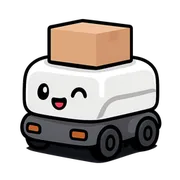
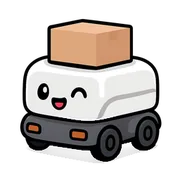
Remove dark ground shadow from AMR frame b
Claude-Session: https://claude.ai/code/session_019QwctBLnb4UTXMJBnbargq

Changed region(s): [[0.1389, 0.7778, 0.8333, 0.9167], [0.3611, 0.6389, 0.6389, 0.6944], [0.8333, 0.8056, 0.8889, 0.8333]]

diff --git a/index.html b/index.html
@@ -2027,7 +2027,7 @@ const faceHTML = (e, who = 'suit') => FACE_ART[who][e] || FACE_ART.suit[e] || e;
 // 같은 그림이 여러 개 있어도 박자가 겹치지 않게 시작점을 흩뜨림
 // 그림을 다시 그려도 폰에 남은 옛 그림이 보이지 않게 주소에 버전을 붙임
 // 파일마다 내용이 바뀔 때만 새로 받도록 파일 해시를 붙임 (빌드할 때 채움)
-const ART_HASH = {"tile-gundam-a.png": "41a00219", "ind-school-a.png": "1b0fc977", "robot-cobot-cook-b.png": "3f739fa6", "tile-tool-a.png": "f174149f", "tile-made-a.png": "d557ba97", "ind-training-b.png": "0efc1d0b", "robot-qarm-a.png": "901f7afc", "tile-legs-b.png": "c0299b41", "tile-union-b.png": "b3a03a42", "robot-indus-b.png": "4a7cabef", "face-cook-frown.png": "e01a4907", "face-cook-neutral.png": "71441525", "ind-battery-b.png": "6e2bd18d", "ind-fire-a.png": "a71484d3", "face-trump-neutral.png": "5aecac90", "tile-legs-a.png": "2faadad6", "face-worker-angry.png": "eb6b88ed", "ind-steel-a.png": "0f070238", "face-suitf-delight.png": "d729900f", "tile-iarm-a.png": "fc127d92", "ind-steel-b.png": "e122612f", "ind-defense-b.png": "5aa959f1", "face-cook-angry.png": "50c65318", "ind-port-b.png": "6f5dc395", "tile-tf-a.png": "d2bc0939", "ind-factory-a.png": "909659fd", "tile-term-b.png": "fa8e5b3f", "face-neutral.png": "a9a959b5", "tile-wheel-a.png": "9e98ebac", "face-cook-smile.png": "be9219e0", "robot-indus-a.png": "ba4c70bc", "tile-korea-b.png": "ebe1008b", "face-trump-tear.png": "21d22245", "tile-auto-b.png": "bb58686e", "ind-material-b.png": "a8f27197", "tile-korea-a.png": "d1987f19", "tile-union-a.png": "d48507d4", "ind-auto-a.png": "9a8abf4f", "face-frown.png": "26865767", "robot-centaur-a.png": "a9e1e03b", "tile-auto-a.png": "e7100d25", "robot-cobot-cook-a.png": "2acb022c", "face-worker-tear.png": "940dcfc3", "ind-autoparts-b.png": "a5dbd76a", "face-suitf-angry.png": "5b24ceb5", "tile-iarm-b.png": "f0647318", "face-suitf-tear.png": "d0923069", "robot-centaur-b.png": "848f1932", "robot-mm-a.png": "e5da97cf", "ind-defense-a.png": "23a0651c", "robot-quad-a.png": "1e1384cf", "ind-autoparts-a.png": "26dcf7ce", "tile-eva-b.png": "b64d5546", "face-cook-tear.png": "d529800c", "tile-gundam-b.png": "69722c17", "face-trump-delight.png": "e41c1f7d", "face-angry.png": "8542c3c5", "tile-floor-b.png": "7bfb4d09", "face-suitf-smile.png": "2bfa949d", "ind-material-a.png": "2c67685e", "tile-term-a.png": "f86a988f", "tile-eva-a.png": "48055f29", "tile-hum-a.png": "cdc85433", "ind-port-a.png": "0e5340b9", "ind-police-a.png": "717025fa", "wheel-tilt-ref.png": "4a1e31a2", "robot-cobot-a.png": "bb066d5e", "face-trump-angry.png": "6fc0cf6d", "tile-wheel-b.png": "df5d2104", "indus-ref.png": "2bfe4680", "face-worker-neutral.png": "f4f1ff96", "robot-amr-a.png": "21455470", "face-delight.png": "4b63238d", "face-trump-frown.png": "4102f723", "robot-mm-b.png": "41cc89c7", "ind-fire-b.png": "c530534e", "ind-police-b.png": "750b1169", "ind-ess-b.png": "c7fac005", "ind-training-a.png": "a9fe00e5", "tile-tf-b.png": "23f3efda", "ind-aircraft-a.png": "53a6b218", "ind-school-b.png": "a14af652", "tile-arm-b.png": "6cb9dab3", "face-worker-delight.png": "56fdb189", "face-worker-smile.png": "7eaefd7c", "robot-quad-b.png": "9b27fe7b", "ind-chicken-a.png": "bd4bc4e3", "face-cook-delight.png": "5ceb20b0", "ind-battery-a.png": "2ead7359", "robot-agv-b.png": "397f8942", "face-tear.png": "7cacead6", "face-suitf-neutral.png": "b29259fe", "ind-auto-b.png": "f90715bb", "ind-shipyard-a.png": "7c43481e", "tile-tool-b.png": "c8c8a23a", "ind-factory-b.png": "b9dfaab4", "ind-chicken-b.png": "b4930a6b", "ind-shipyard-b.png": "098fdbae", "robot-qarm-b.png": "abd9a737", "tile-arm-a.png": "cd420a51", "tile-made-b.png": "7077aabd", "tile-floor-a.png": "14074a30", "robot-cobot-weld-a.png": "da53987b", "robot-agv-a.png": "ee67b65c", "ind-logistics-b.png": "9c5aeeca", "face-smile.png": "786eeb95", "face-worker-frown.png": "0f8d8086", "robot-cobot-weld-b.png": "a9e69108", "robot-amr-b.png": "e23a5198", "tile-hum-b.png": "01ca7c8b", "ind-ess-a.png": "83fff111", "face-suitf-frown.png": "1236f440", "ind-aircraft-b.png": "6afa5f2a", "face-trump-smile.png": "03674df8", "robot-cobot-b.png": "7ea58bc1", "ind-logistics-a.png": "b1b04f38"};
+const ART_HASH = {"tile-gundam-a.png": "41a00219", "ind-school-a.png": "1b0fc977", "robot-cobot-cook-b.png": "3f739fa6", "tile-tool-a.png": "f174149f", "tile-made-a.png": "d557ba97", "ind-training-b.png": "0efc1d0b", "robot-qarm-a.png": "901f7afc", "tile-legs-b.png": "c0299b41", "tile-union-b.png": "b3a03a42", "robot-indus-b.png": "4a7cabef", "face-cook-frown.png": "e01a4907", "face-cook-neutral.png": "71441525", "ind-battery-b.png": "6e2bd18d", "ind-fire-a.png": "a71484d3", "face-trump-neutral.png": "5aecac90", "tile-legs-a.png": "2faadad6", "face-worker-angry.png": "eb6b88ed", "ind-steel-a.png": "0f070238", "face-suitf-delight.png": "d729900f", "tile-iarm-a.png": "fc127d92", "ind-steel-b.png": "e122612f", "ind-defense-b.png": "5aa959f1", "face-cook-angry.png": "50c65318", "ind-port-b.png": "6f5dc395", "tile-tf-a.png": "d2bc0939", "ind-factory-a.png": "909659fd", "tile-term-b.png": "fa8e5b3f", "face-neutral.png": "a9a959b5", "tile-wheel-a.png": "9e98ebac", "face-cook-smile.png": "be9219e0", "robot-indus-a.png": "ba4c70bc", "tile-korea-b.png": "ebe1008b", "face-trump-tear.png": "21d22245", "tile-auto-b.png": "bb58686e", "ind-material-b.png": "a8f27197", "tile-korea-a.png": "d1987f19", "tile-union-a.png": "d48507d4", "ind-auto-a.png": "9a8abf4f", "face-frown.png": "26865767", "robot-centaur-a.png": "a9e1e03b", "tile-auto-a.png": "e7100d25", "robot-cobot-cook-a.png": "2acb022c", "face-worker-tear.png": "940dcfc3", "ind-autoparts-b.png": "a5dbd76a", "face-suitf-angry.png": "5b24ceb5", "tile-iarm-b.png": "f0647318", "face-suitf-tear.png": "d0923069", "robot-centaur-b.png": "848f1932", "robot-mm-a.png": "e5da97cf", "ind-defense-a.png": "23a0651c", "robot-quad-a.png": "1e1384cf", "ind-autoparts-a.png": "26dcf7ce", "tile-eva-b.png": "b64d5546", "face-cook-tear.png": "d529800c", "tile-gundam-b.png": "69722c17", "face-trump-delight.png": "e41c1f7d", "face-angry.png": "8542c3c5", "tile-floor-b.png": "7bfb4d09", "face-suitf-smile.png": "2bfa949d", "ind-material-a.png": "2c67685e", "tile-term-a.png": "f86a988f", "tile-eva-a.png": "48055f29", "tile-hum-a.png": "cdc85433", "ind-port-a.png": "0e5340b9", "ind-police-a.png": "717025fa", "wheel-tilt-ref.png": "4a1e31a2", "robot-cobot-a.png": "bb066d5e", "face-trump-angry.png": "6fc0cf6d", "tile-wheel-b.png": "df5d2104", "indus-ref.png": "2bfe4680", "face-worker-neutral.png": "f4f1ff96", "robot-amr-a.png": "21455470", "face-delight.png": "4b63238d", "face-trump-frown.png": "4102f723", "robot-mm-b.png": "41cc89c7", "ind-fire-b.png": "c530534e", "ind-police-b.png": "750b1169", "ind-ess-b.png": "c7fac005", "ind-training-a.png": "a9fe00e5", "tile-tf-b.png": "23f3efda", "ind-aircraft-a.png": "53a6b218", "ind-school-b.png": "a14af652", "tile-arm-b.png": "6cb9dab3", "face-worker-delight.png": "56fdb189", "face-worker-smile.png": "7eaefd7c", "robot-quad-b.png": "9b27fe7b", "ind-chicken-a.png": "bd4bc4e3", "face-cook-delight.png": "5ceb20b0", "ind-battery-a.png": "2ead7359", "robot-agv-b.png": "397f8942", "face-tear.png": "7cacead6", "face-suitf-neutral.png": "b29259fe", "ind-auto-b.png": "f90715bb", "ind-shipyard-a.png": "7c43481e", "tile-tool-b.png": "c8c8a23a", "ind-factory-b.png": "b9dfaab4", "ind-chicken-b.png": "b4930a6b", "ind-shipyard-b.png": "098fdbae", "robot-qarm-b.png": "abd9a737", "tile-arm-a.png": "cd420a51", "tile-made-b.png": "7077aabd", "tile-floor-a.png": "14074a30", "robot-cobot-weld-a.png": "da53987b", "robot-agv-a.png": "ee67b65c", "ind-logistics-b.png": "9c5aeeca", "face-smile.png": "786eeb95", "face-worker-frown.png": "0f8d8086", "robot-cobot-weld-b.png": "a9e69108", "robot-amr-b.png": "09f47fab", "tile-hum-b.png": "01ca7c8b", "ind-ess-a.png": "83fff111", "face-suitf-frown.png": "1236f440", "ind-aircraft-b.png": "6afa5f2a", "face-trump-smile.png": "03674df8", "robot-cobot-b.png": "7ea58bc1", "ind-logistics-a.png": "b1b04f38"};
 // 게임에서는 가벼운 webp(assets/w/)를 씀. 파일 이름은 png와 같고 확장자만 다름
 const av = f => { const n = f.replace('assets/', ''); return `assets/w/${n.replace(/\.png$/, '.webp')}?v=${ART_HASH[n] || '0'}`; };
 // 업종 아이콘(ind-)은 a프레임만, 로봇·부품은 a·b를 번갈아 (팔이 까딱, 다리가 제자리걸음 등)
@@ -2390,7 +2390,7 @@ function banner(text, delay) {
 }
 
 // ───────── 진행 ─────────
-const BUILD_V = '1003-204808';
+const BUILD_V = '1003-204953';
 function loop(t) {
   const dt = Math.min(0.1, (t - (S.last || t)) / 1000);
   S.last = t;
